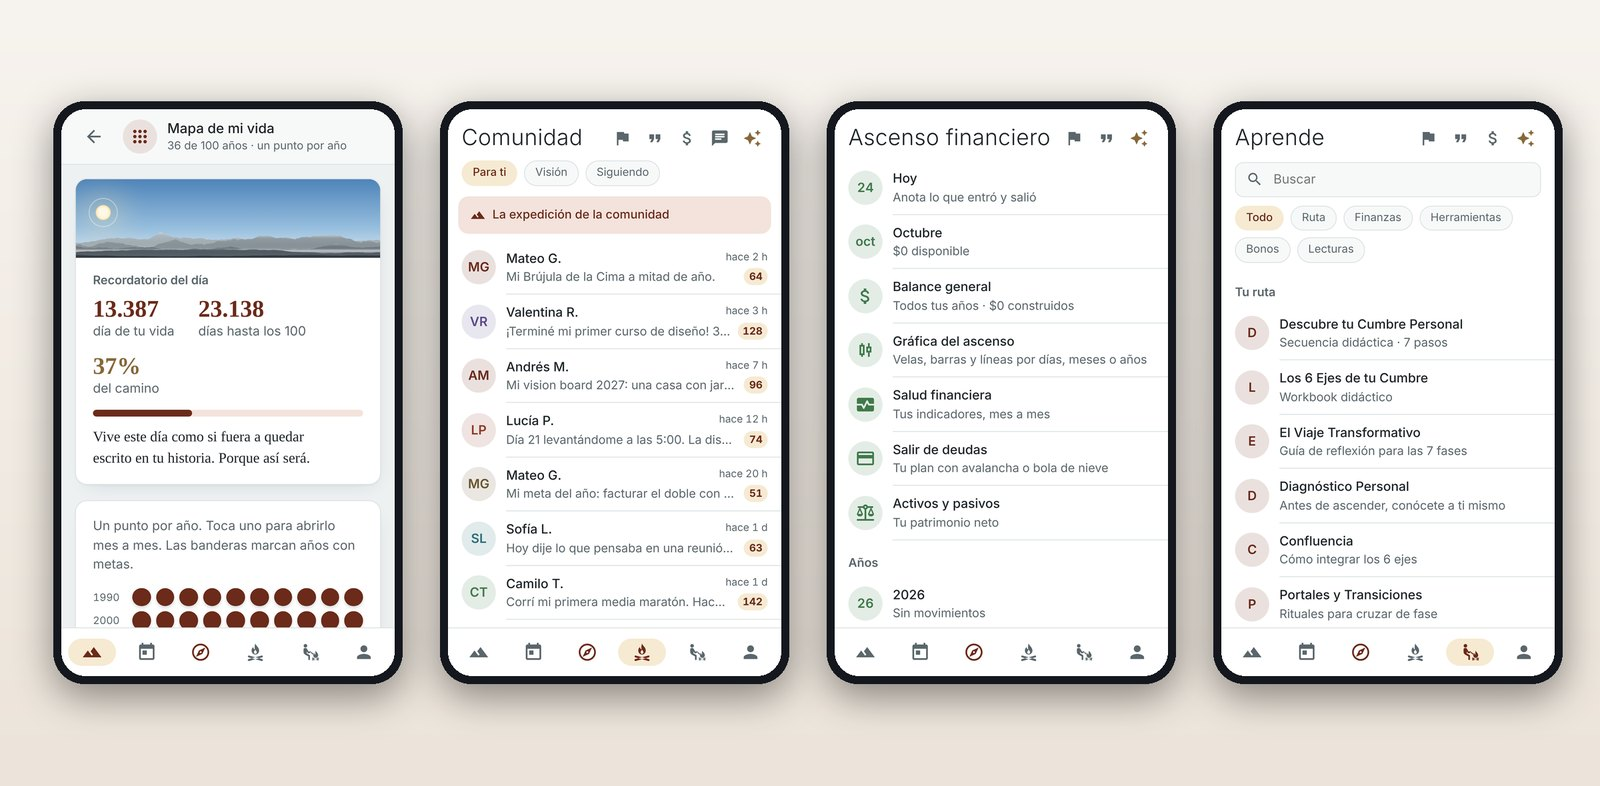
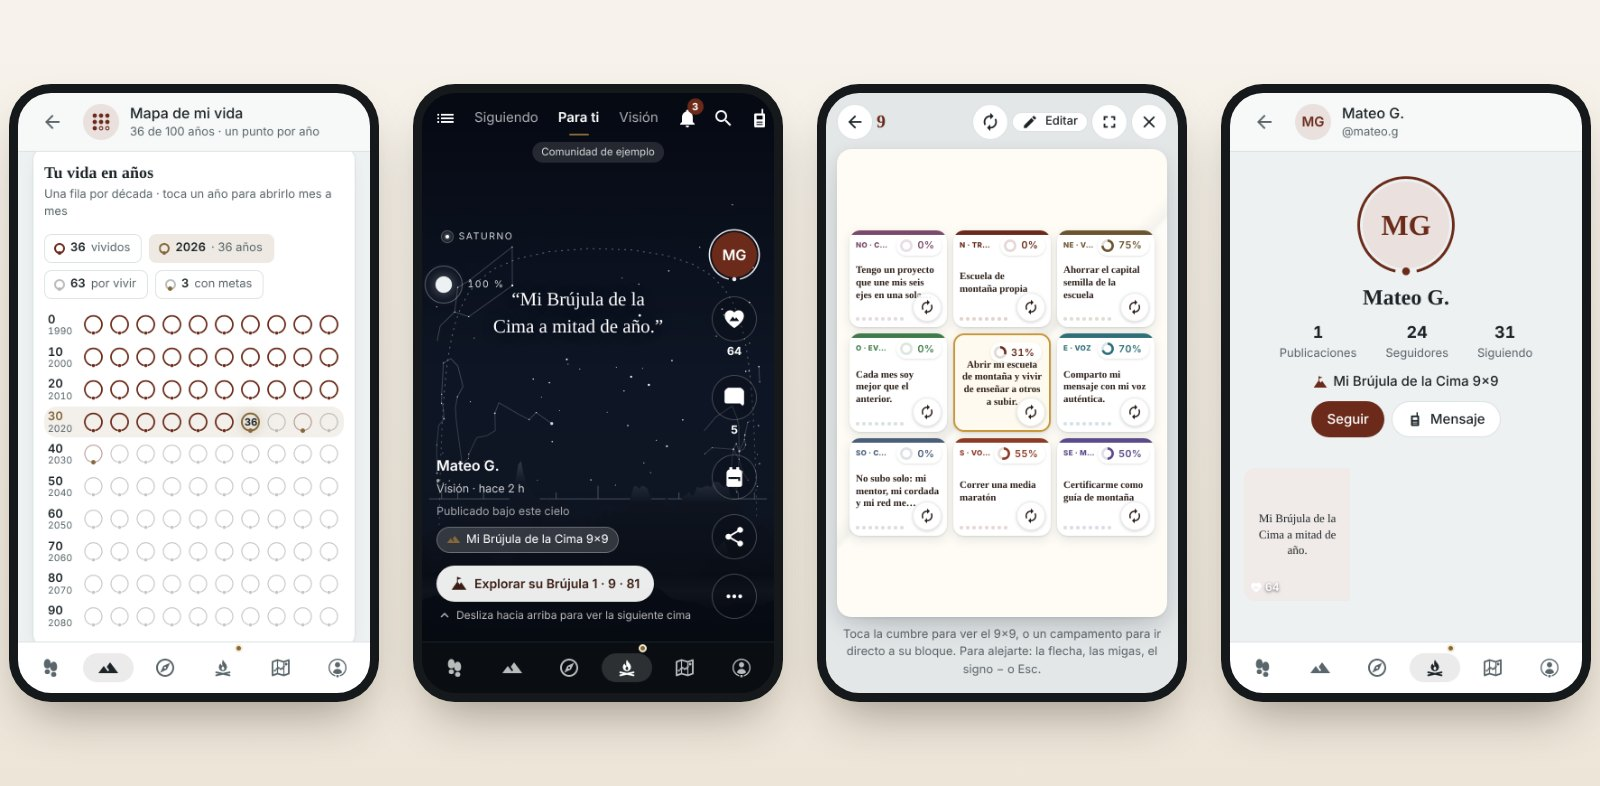
README: capturas nuevas (vida en años con el símbolo, Cimas, Brújula y perfil) y barra del visor de la Brújula en una fila en el teléfono
Claude-Session: https://claude.ai/code/session_01Y9kbKZoj27EDMyNuc8Kmar

diff --git a/web/estilos.css b/web/estilos.css
@@ -2568,3 +2568,10 @@ a.carta-releer { text-decoration: none; }
 .md-volteo { animation: md-volteo .34s cubic-bezier(.2, 0, 0, 1); }
 @keyframes md-volteo { from { transform: perspective(900px) rotateY(80deg); opacity: .4; } to { transform: none; opacity: 1; } }
 @media (prefers-reduced-motion: reduce) { .md-volteo { animation: none; } }
+/* Visor de la Brújula en el teléfono: una sola fila; acercar y alejar quedan en las tarjetas y la flecha */
+@media (max-width: 560px) {
+  .md-visor-barra { flex-wrap: nowrap; gap: 4px; }
+  .md-visor-barra [aria-label="Alejar (−)"], .md-visor-barra [aria-label="Acercar (+)"] { display: none; }
+  .md-visor-barra .btn.mini { padding: 0 10px; }
+  .md-visor-barra .md-migas { display: none; }
+}

diff --git a/README.md b/README.md
@@ -36,7 +36,7 @@ Ves tu vida como un mapa, **un símbolo de SuRoute por año**, y la bajas en cas
 marcas hoy sube solo hasta tu propósito. Así siempre sabes cuál es tu siguiente paso y cuánto has subido.
 
 <p align="center">
-  <img src="diseno/readme/vitrina.jpg" alt="SuRoute en el computador (Mapa de mi vida) y en el teléfono (Mi perfil)" width="100%">
+  <img src="diseno/readme/vitrina.jpg" alt="SuRoute en el computador (Mapa de mi vida con un símbolo por año) y en el teléfono (Perfil)" width="100%">
 </p>
 
 ## Lo que hace
@@ -74,7 +74,7 @@ de perfil y girando despacio mientras algo carga. La explicación completa está
 ## Capturas
 
 <p align="center">
-  <img src="diseno/readme/capturas.jpg" alt="Capturas en el teléfono: Mapa de mi vida, Comunidad, Ascenso financiero y Aprende" width="100%">
+  <img src="diseno/readme/capturas.jpg" alt="Capturas en el teléfono: Tu vida en años, Cimas de la comunidad, el vision board de la Brújula con tarjetas que giran y un perfil público" width="100%">
 </p>
 
 ## Privacidad
